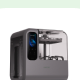
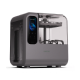
Fix small card thumbnails: 104px white square with centered product
- Thumbnail container is now 104x104 white rounded square (matches Figma
  full-height-minus-padding spec)
- Product PNG sits inside via background-size: 80% auto + center, so it
  is visually centered with breathing room and the white background fills
  any aspect mismatch
- Re-cropped cleaning/toner thumbnails to 80x80 product-only (no card bg
  bleed)

diff --git a/index.html b/index.html
@@ -179,12 +179,12 @@
     -webkit-backdrop-filter: blur(6px); backdrop-filter: blur(6px);
   }
 
-  /* ----- Small card (128px high) ----- */
+  /* ----- Small card (128px high in Figma) ----- */
   .card-sm {
     border-radius: 22px;
     padding: 12px;
-    display: flex; align-items: center; gap: 14px;
-    min-height: 104px;
+    display: flex; align-items: center; gap: 12px;
+    height: 128px;
     cursor: pointer;
     transition: transform 0.18s ease;
   }
@@ -192,14 +192,14 @@
   .card-sm.green { background: #d6ebd1; }
   .card-sm.pink { background: #fbe1e6; }
   .card-sm-thumb {
-    width: 80px; height: 80px;
+    width: 104px; height: 104px;
     border-radius: 18px;
-    background: #fff;
-    flex-shrink: 0;
-    display: flex; align-items: center; justify-content: center;
-    overflow: hidden;
-    background-size: cover;
+    background-color: #fff;
+    background-repeat: no-repeat;
+    background-size: 80% auto;
     background-position: center;
+    flex-shrink: 0;
+    align-self: center;
   }
   .card-sm-info {
     flex: 1; min-width: 0;